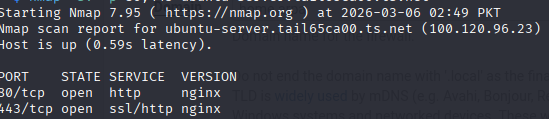
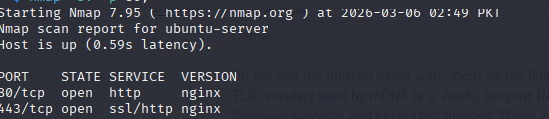
Fix Phase 2 link, HSTS wording, redact hostnames in screenshots
- README: Phase 2 link pointed at the Phase 1 file
- Phase 3: a 301 redirect is not HSTS; reworded
- Phase 3: show repo copy of nmap screenshot instead of old pinned commit
- Redact Tailscale hostname/IP from two nmap screenshots and account/IP from two Azure screenshots
- Fix filename typo (sucessful -> successful), remove duplicate export-client - Copy.png

Claude-Session: https://claude.ai/code/session_01EneLcXdmYTWT7GcuyBCP9c

diff --git a/Phase-3-Secure-Web-Gateway-&-CGNAT-Bypass.md b/Phase-3-Secure-Web-Gateway-&-CGNAT-Bypass.md
@@ -25,7 +25,7 @@ local environment.
 - Generated a **Self-Signed Certificate** via OpenSSL:
   - Key: 2048-bit RSA
   - Purpose: Local encryption for internal LAN testing (Port 443).
-- Configured HSTS (301 Redirects): Forced all insecure Port 80 requests hitting the local IP to upgrade to HTTPS.
+- Configured HTTP-to-HTTPS redirect (301): Forced all insecure Port 80 requests hitting the local IP to upgrade to HTTPS.
 ## Step 3: NGINX Hardening
 - **Server Tokens**: Modified /etc/nginx/nginx.conf to set server_tokens off;.
   - Result: Nmap scans no longer disclose the NGINX version number.
@@ -59,4 +59,4 @@ This project confirms that secure service delivery is possible even in restricte
 (Firewalls/Routing) and **Modern Cloud-Native Security** (Zero-Trust/Tunneling).
 
 ### Nmap scan after hardening
-![image alt](https://github.com/Shadow-cyber-pk/pfsense-Multi-subnet-Lab/blob/fcfa440f10eaeca3ea847f8deacea910d2963de4/images/Screenshot%202026-03-06%20040400.png)
+![image alt](images/Screenshot%202026-03-06%20040400.png)

diff --git a/README.md b/README.md
@@ -35,5 +35,5 @@ Designed and implemented a simulated enterprise network using pfSense, featuring
 
 ## Project Phases
 * **[Phase 1: Network segmentation and access control](https://github.com/Shadow-cyber-pk/pfsense-Multi-subnet-Lab/blob/main/Phase-1-Controlled-internet-access.md)**
-* **[Phase 2: VPN configuration and firewall hardening](https://github.com/Shadow-cyber-pk/pfsense-Multi-subnet-Lab/blob/main/Phase-1-Controlled-internet-access.md)**
+* **[Phase 2: VPN configuration and firewall hardening](https://github.com/Shadow-cyber-pk/pfsense-Multi-subnet-Lab/blob/main/Phase-2-Client-to-Site-VPN.md)**
 * **[Phase 3: Secure web gateway deployment and NAT configuration](https://github.com/Shadow-cyber-pk/pfsense-Multi-subnet-Lab/blob/main/Phase-3-Secure-Web-Gateway-%26-CGNAT-Bypass.md)**

diff --git a/Phase-2-Client-to-Site-VPN.md b/Phase-2-Client-to-Site-VPN.md
@@ -496,7 +496,7 @@ sudo systemctl start ssh
 ![image alt](https://github.com/Shadow-cyber-pk/pfsense-Multi-subnet-Lab/blob/ffe2a9cf2ba8dbcb8b920f9494d444ba13f14503/images/censored-ping-fail.jpeg)
 
 - After tailscale was setup
-![image alt](https://github.com/Shadow-cyber-pk/pfsense-Multi-subnet-Lab/blob/ffe2a9cf2ba8dbcb8b920f9494d444ba13f14503/images/censored-ping-sucessful.jpeg)
+![image alt](images/censored-ping-successful.jpeg)
 
 ### ping using tailscale ip
 ![image alt](https://github.com/Shadow-cyber-pk/pfsense-Multi-subnet-Lab/blob/ffe2a9cf2ba8dbcb8b920f9494d444ba13f14503/images/tailscale-ping.jpeg)
